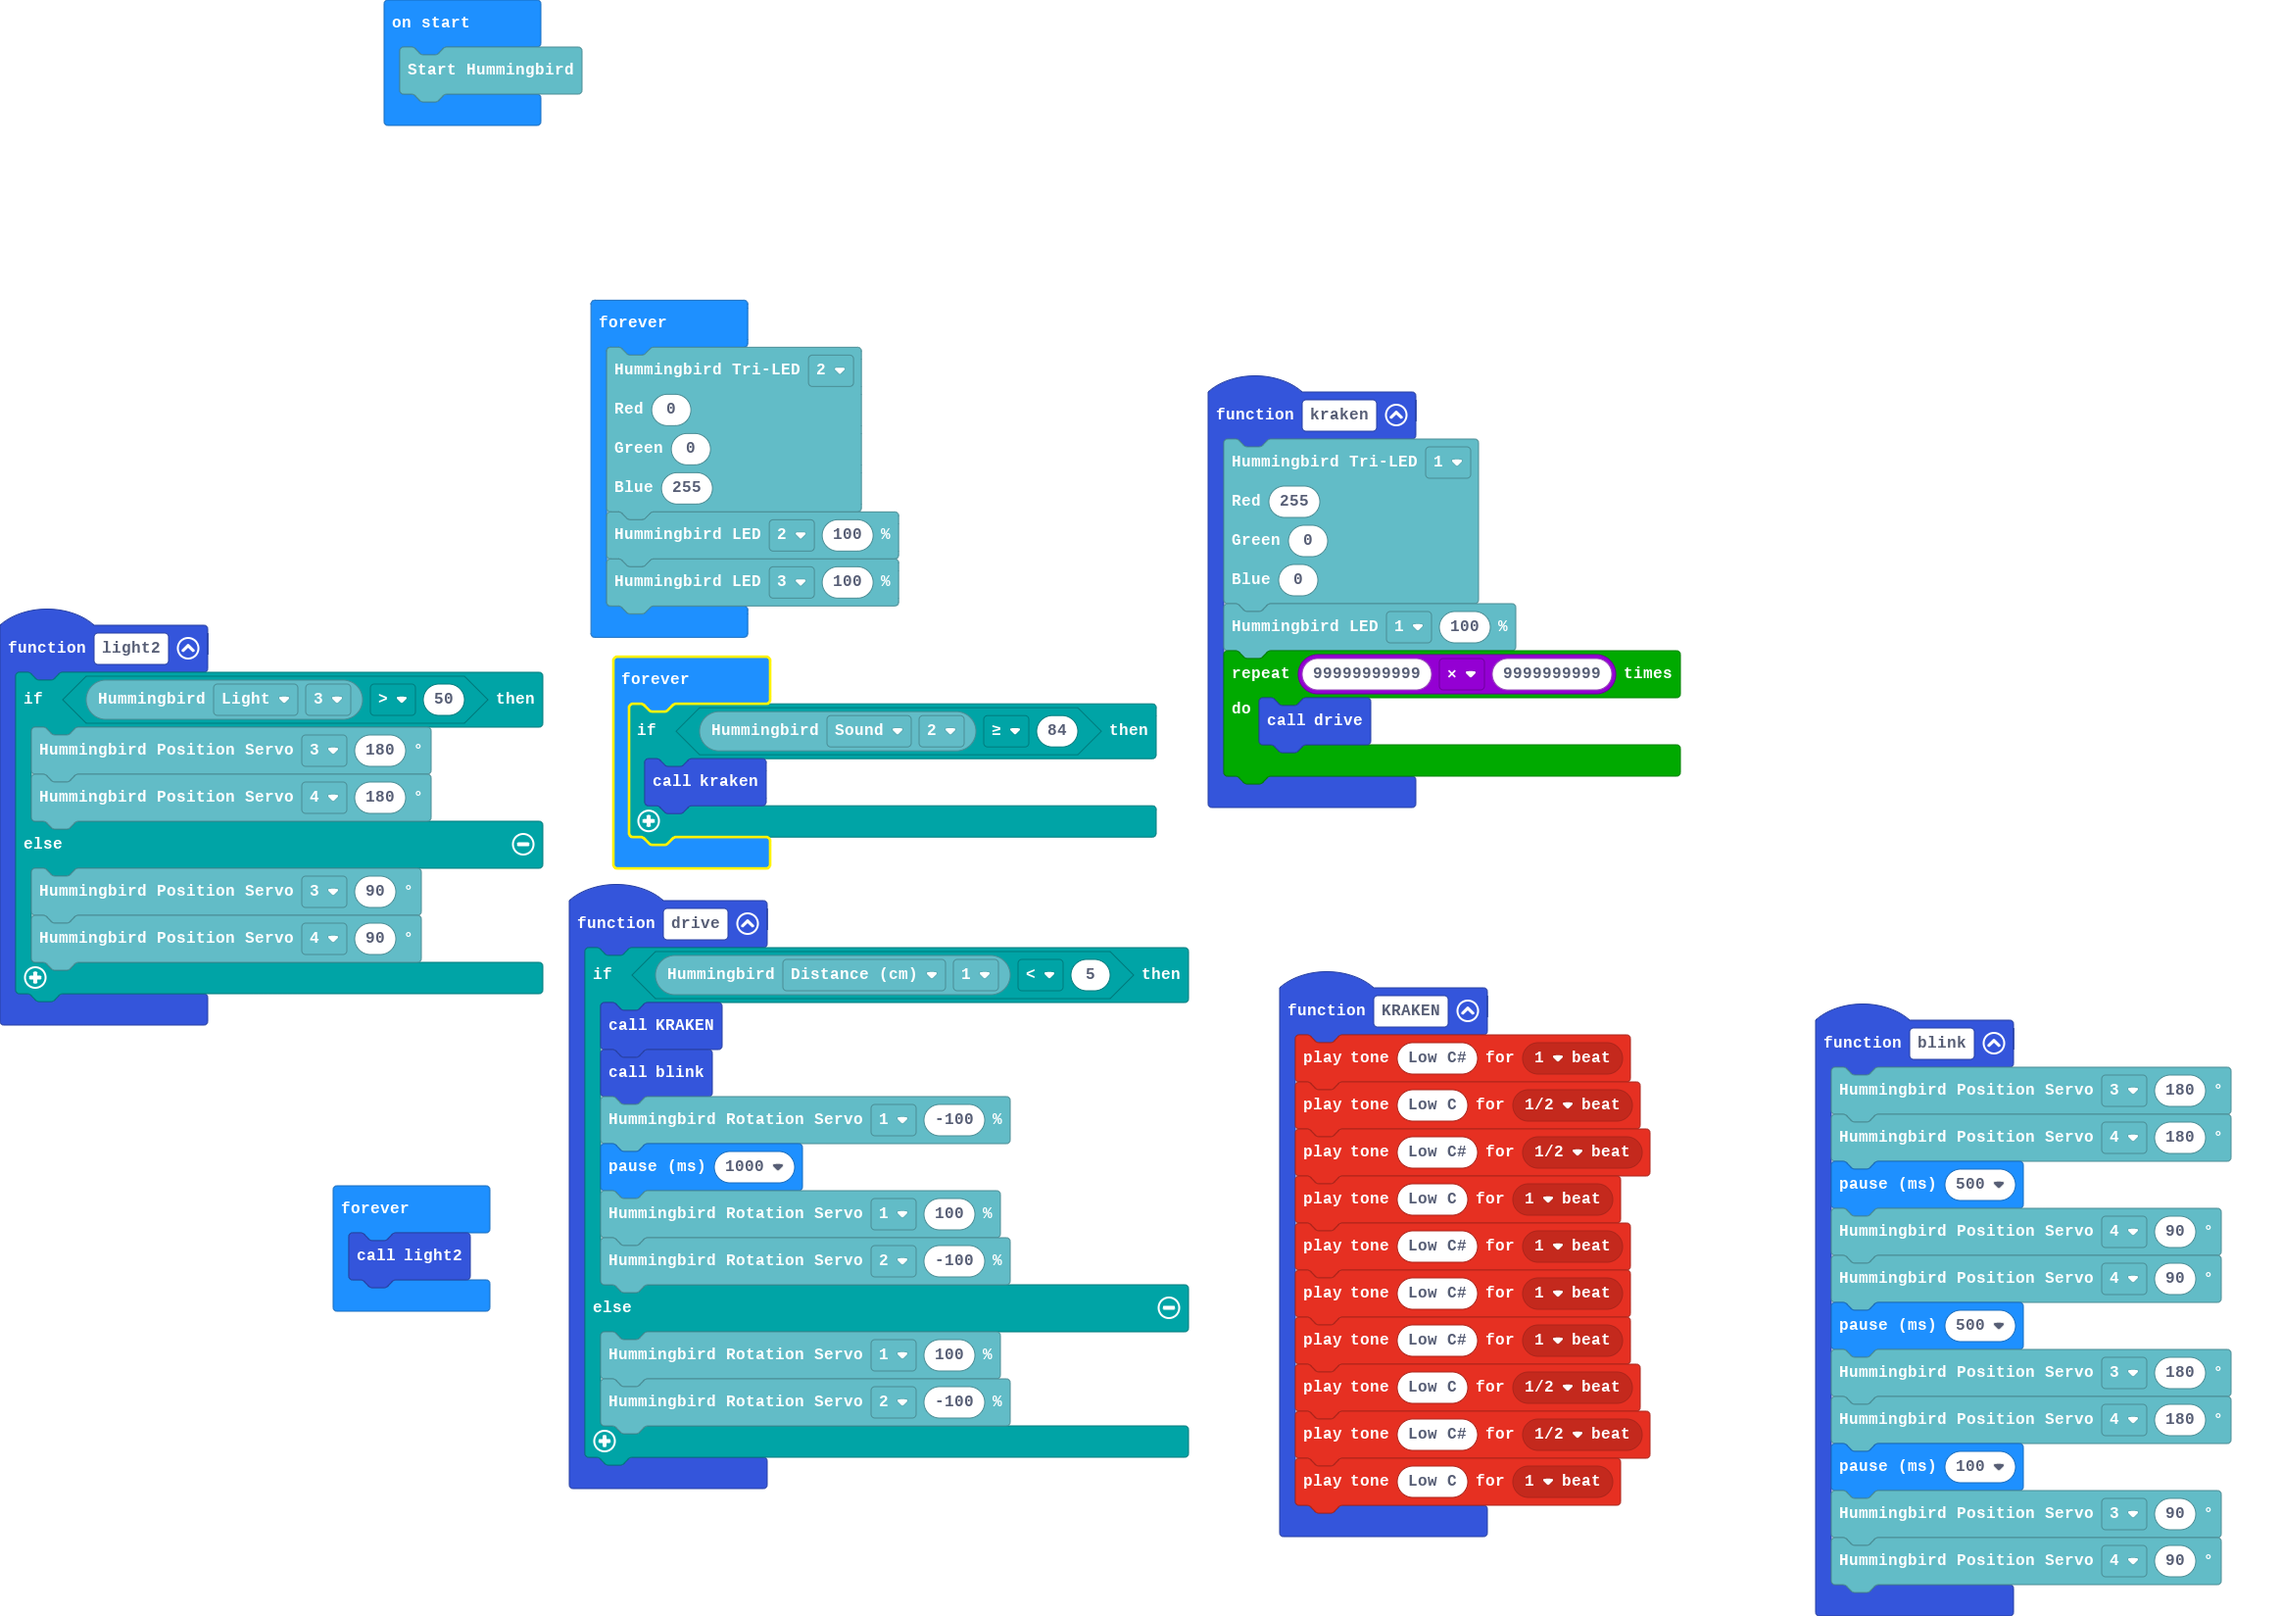
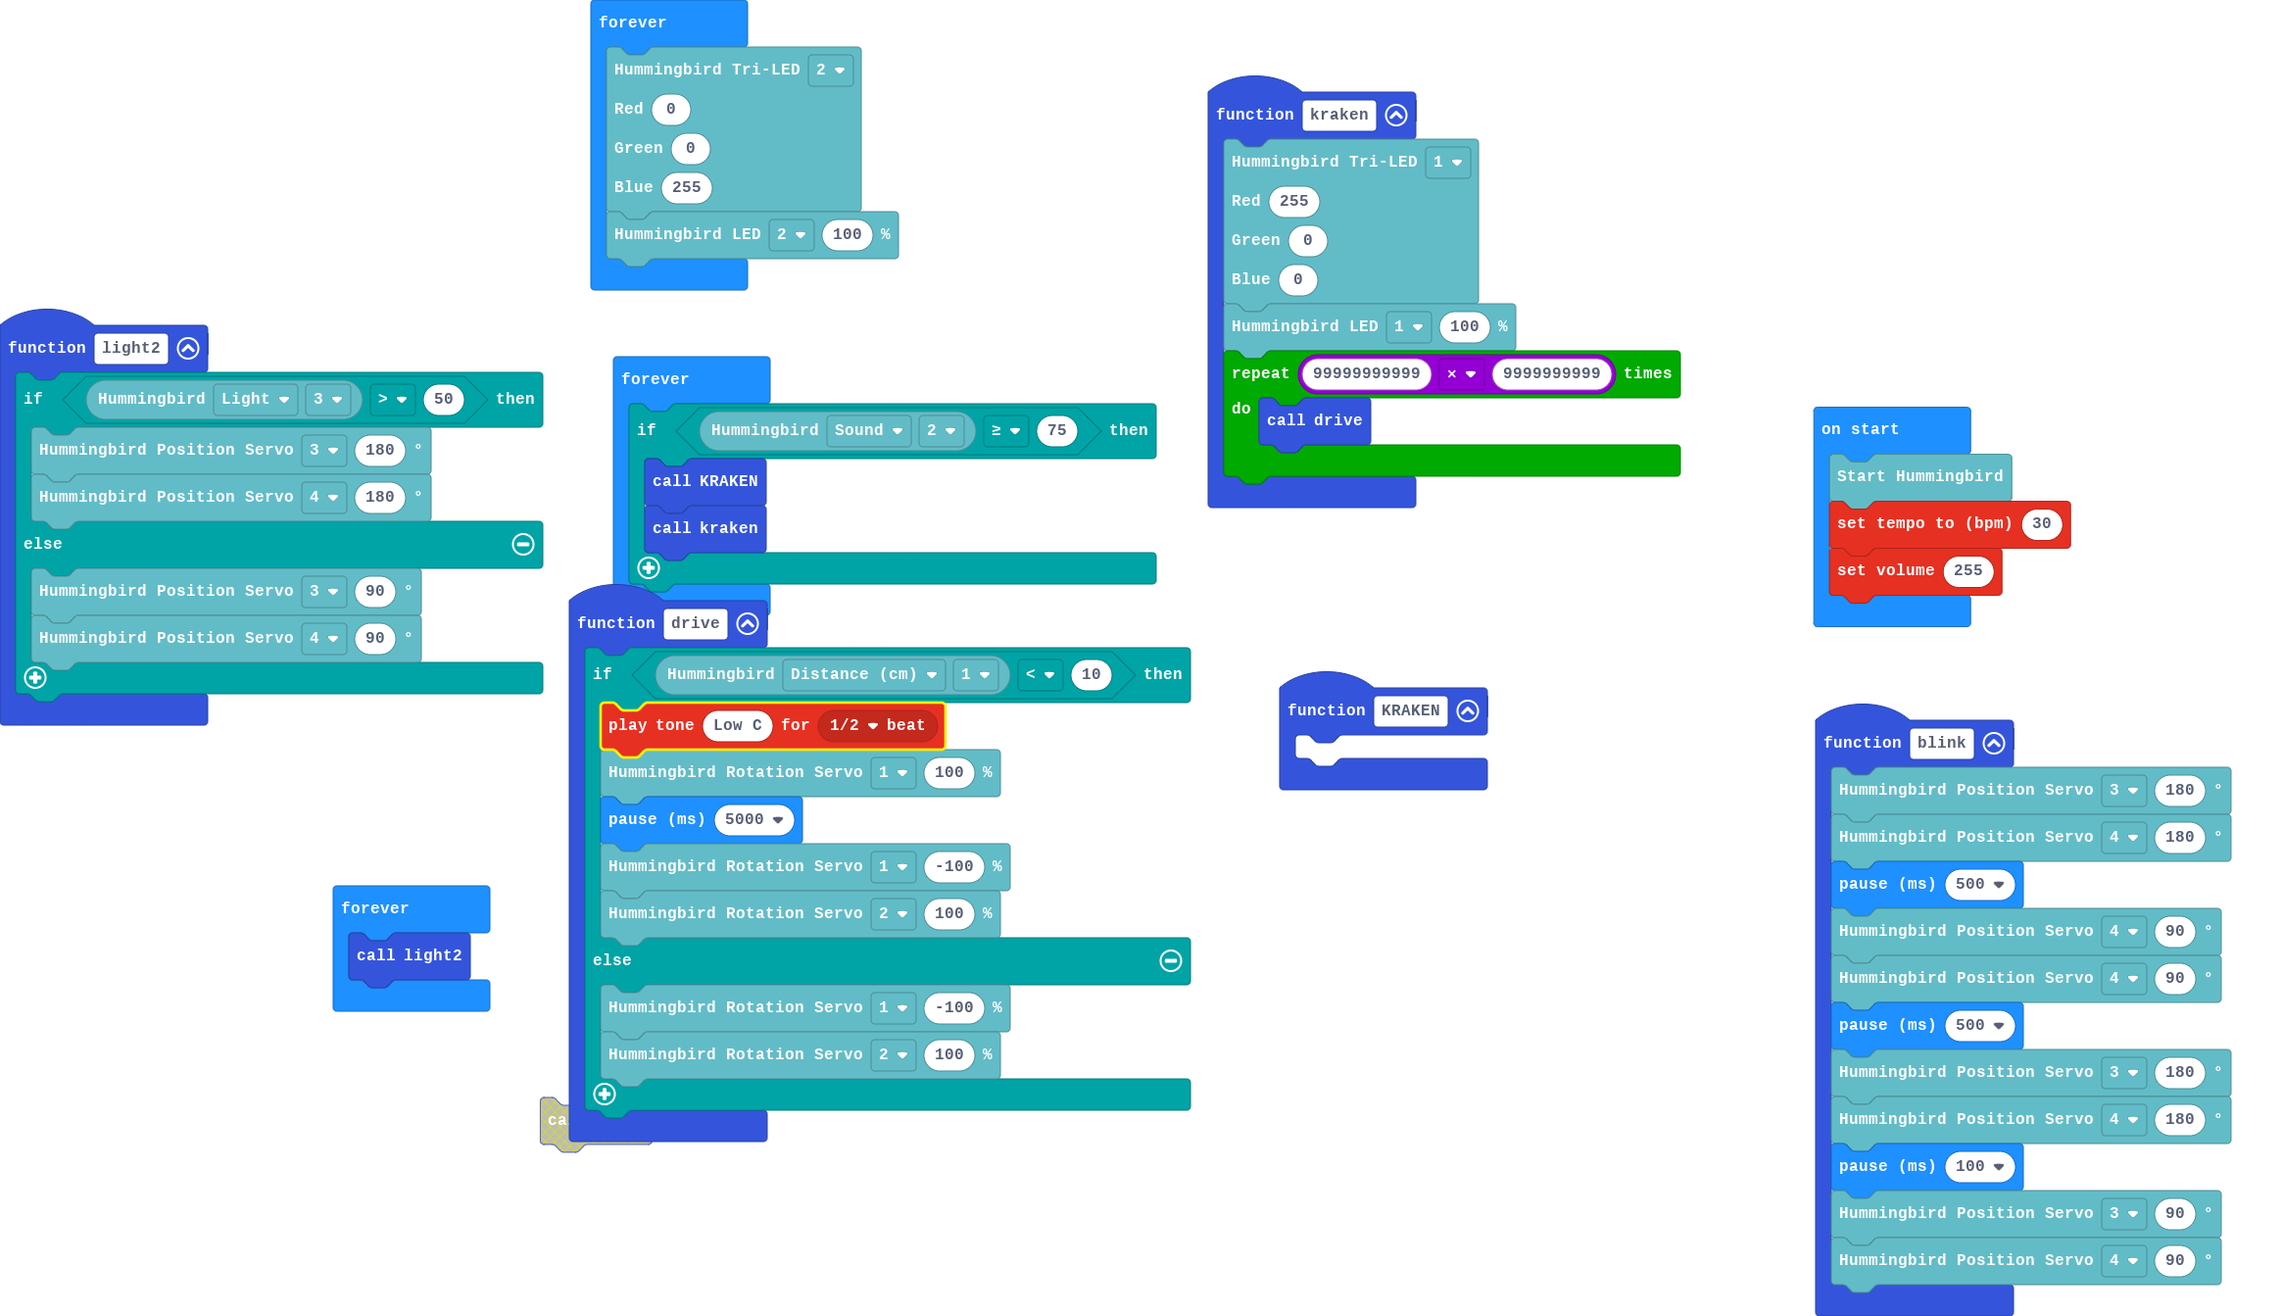
yes

diff --git a/main.ts b/main.ts
@@ -24,29 +24,19 @@ function kraken () {
     }
 }
 function drive () {
-    if (hummingbird.getSensor(SensorType.Distance, ThreePort.One) < 5) {
-        KRAKEN()
-        blink()
+    if (hummingbird.getSensor(SensorType.Distance, ThreePort.One) < 10) {
+        music.playTone(131, music.beat(BeatFraction.Half))
+        hummingbird.setRotationServo(FourPort.One, 100)
+        basic.pause(5000)
         hummingbird.setRotationServo(FourPort.One, -100)
-        basic.pause(1000)
-        hummingbird.setRotationServo(FourPort.One, 100)
-        hummingbird.setRotationServo(FourPort.Two, -100)
+        hummingbird.setRotationServo(FourPort.Two, 100)
     } else {
-        hummingbird.setRotationServo(FourPort.One, 100)
-        hummingbird.setRotationServo(FourPort.Two, -100)
+        hummingbird.setRotationServo(FourPort.One, -100)
+        hummingbird.setRotationServo(FourPort.Two, 100)
     }
 }
 function KRAKEN () {
-    music.playTone(139, music.beat(BeatFraction.Whole))
-    music.playTone(131, music.beat(BeatFraction.Half))
-    music.playTone(139, music.beat(BeatFraction.Half))
-    music.playTone(131, music.beat(BeatFraction.Whole))
-    music.playTone(139, music.beat(BeatFraction.Whole))
-    music.playTone(139, music.beat(BeatFraction.Whole))
-    music.playTone(139, music.beat(BeatFraction.Whole))
-    music.playTone(131, music.beat(BeatFraction.Half))
-    music.playTone(139, music.beat(BeatFraction.Half))
-    music.playTone(131, music.beat(BeatFraction.Whole))
+	
 }
 function light2 () {
     if (hummingbird.getSensor(SensorType.Light, ThreePort.Three) > 50) {
@@ -58,6 +48,8 @@ function light2 () {
     }
 }
 hummingbird.startHummingbird()
+music.setTempo(30)
+music.setVolume(255)
 basic.forever(function () {
     hummingbird.setTriLED(
     TwoPort.Two,
@@ -66,10 +58,10 @@ basic.forever(function () {
     255
     )
     hummingbird.setLED(ThreePort.Two, 100)
-    hummingbird.setLED(ThreePort.Three, 100)
 })
 basic.forever(function () {
-    if (hummingbird.getSensor(SensorType.Sound, ThreePort.Two) >= 84) {
+    if (hummingbird.getSensor(SensorType.Sound, ThreePort.Two) >= 75) {
+        KRAKEN()
         kraken()
     }
 })
